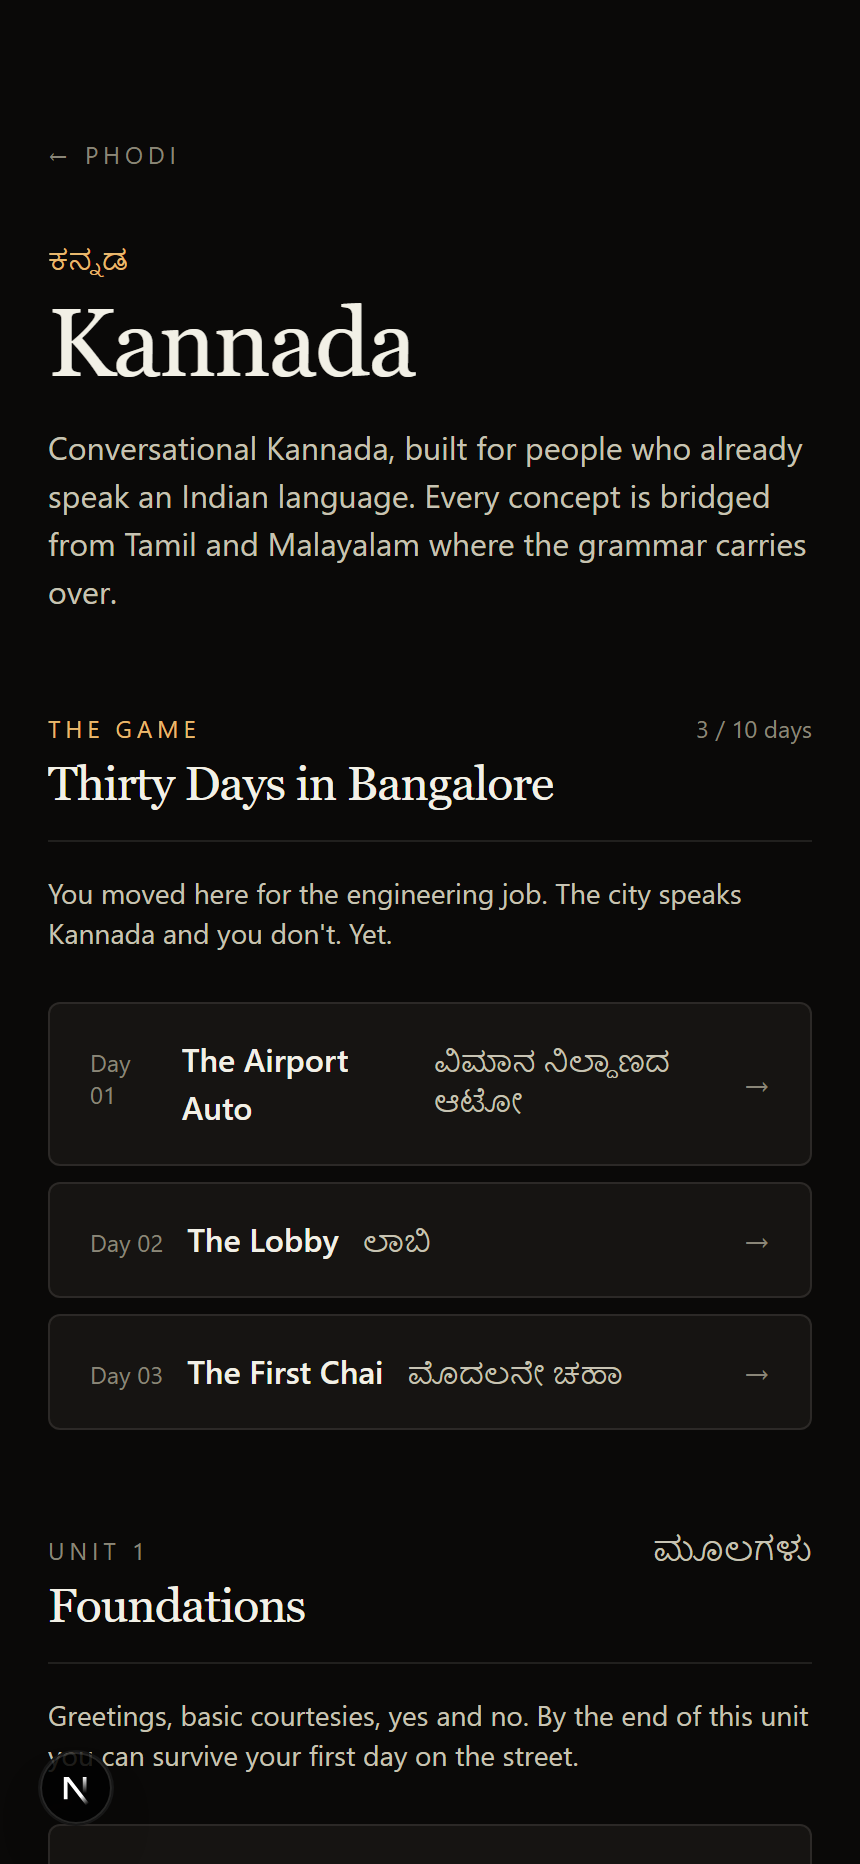
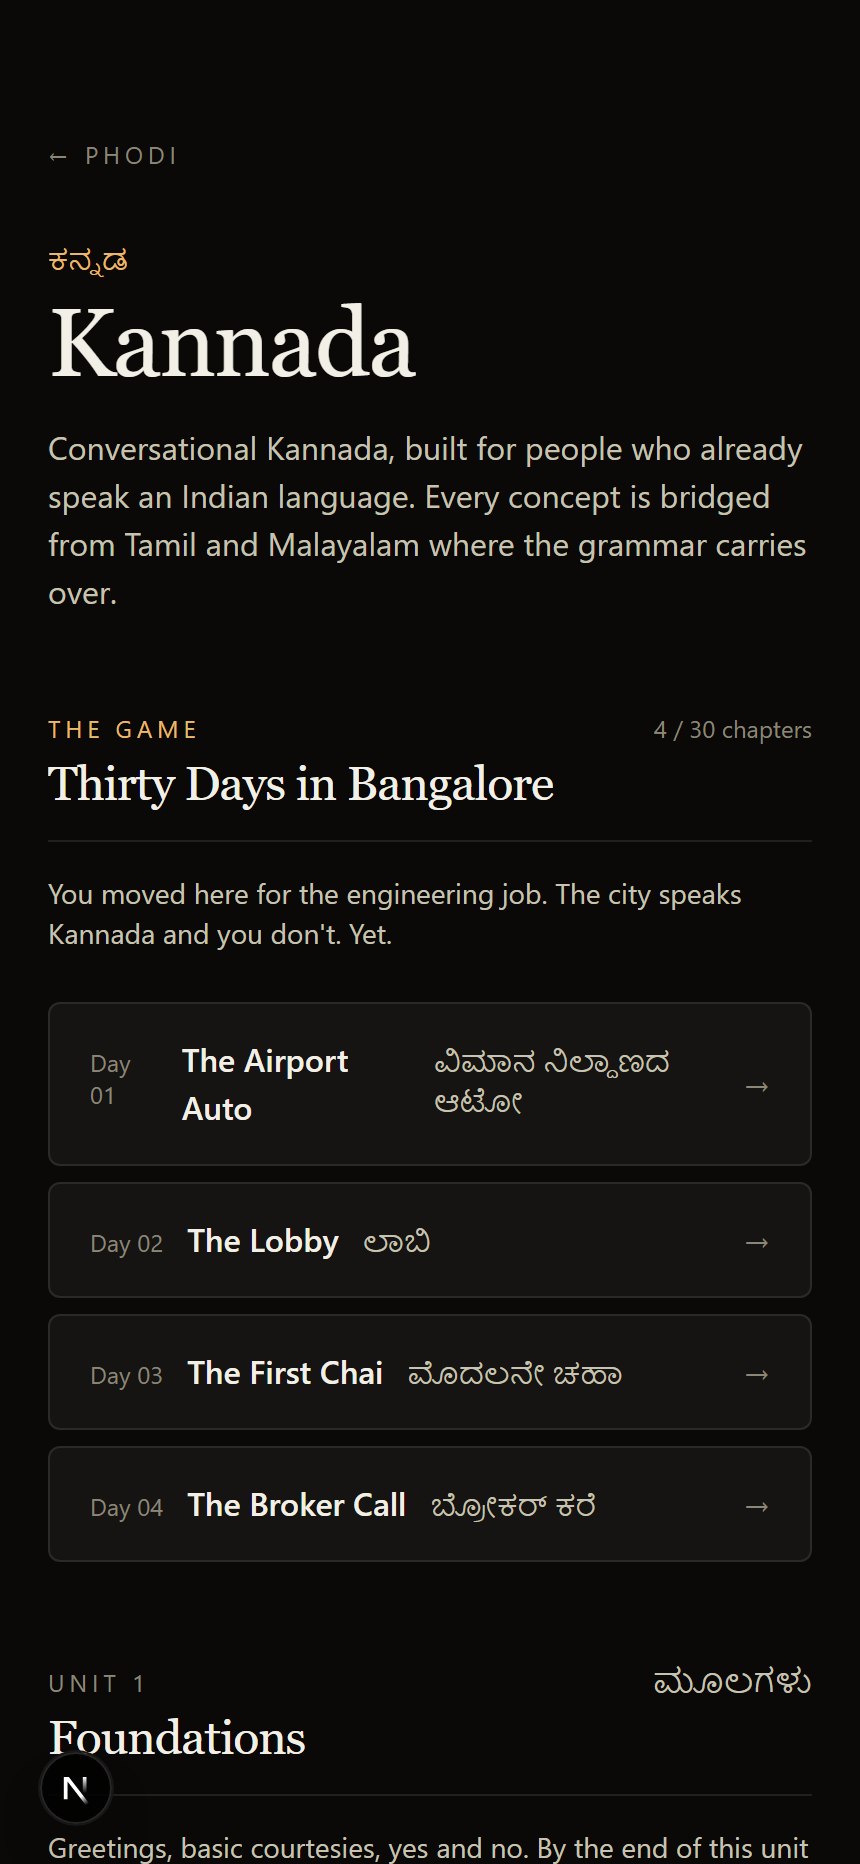
feat: Day 4 — Broker Call + rescope to 100-day arc / 30 chapters
Day 4 — The Broker Call. The first phone-only chapter. Rangaswamy
debuts in four emotional registers across six lines:
  - neutral pickup ("Hello, yāru?" — his Bluetooth crackles)
  - pushy sell ("ಹೌದು ಹೌದು ಸಾರ್. Indiranagar 2BHK. ಸೂಪರ್ flat...") —
    pace 1.35, the fastest synthesized line in the game so far
  - annoyed (when you push back on the ten-month advance — "all
    owners ask for ten months. okay, six if you must.")
  - warm (closing — "today evening six o'clock, come, I'll meet
    you there")

Three player choices test register, negotiation, and scheduling.
Setting "asked_for_options" flag will gate which flats appear in
Day 5 once we build it (or, more accurately, the broker arc that
spans Days 4-7).

Story scope: from "30 days, 10 playable" to **100 narrative days,
30 playable chapters**. A "Day N" tag is an arc position inside
the 100-day story, not the chapter index. The chapter cadence is
dense at the start (chapters 1-10 land on Days 1-10) and stretches
out across the remaining 90 days. The course-page counter now
reads "X / 30 chapters".

diff --git a/src/lib/chapters/content.ts b/src/lib/chapters/content.ts
@@ -4,6 +4,7 @@ import knVoices from "@content/kn/voices.json";
 import knDay01 from "@content/kn/chapters/01-airport.json";
 import knDay02 from "@content/kn/chapters/02-hotel.json";
 import knDay03 from "@content/kn/chapters/03-chai.json";
+import knDay04 from "@content/kn/chapters/04-broker-call.json";
 
 interface VoicesDoc {
   language: string;
@@ -20,6 +21,7 @@ const chaptersByLang: Record<string, Chapter[]> = {
     knDay01 as unknown as Chapter,
     knDay02 as unknown as Chapter,
     knDay03 as unknown as Chapter,
+    knDay04 as unknown as Chapter,
   ],
 };
 

diff --git a/src/app/[lang]/page.tsx b/src/app/[lang]/page.tsx
@@ -44,7 +44,7 @@ export default async function CoursePage({
               </h2>
             </div>
             <p className="text-xs text-cream-dim">
-              {chapters.length} / 10 days
+              {chapters.length} / 30 chapters
             </p>
           </div>
           <p className="mb-6 max-w-md text-sm text-cream-muted">

diff --git a/docs/story-bible.md b/docs/story-bible.md
@@ -12,11 +12,16 @@ You moved to Bangalore for your first engineering job. You have thirty days
 to find a flat, hold down the job, and figure out whether this city is
 yours. The catch: the city speaks Kannada and you don't. (Yet.)
 
-**Scope decision (2026-05-16):** the narrative arc is 30 days, but only
-**the first 10 days ship as playable chapters** (Act 1 — Survival). Days
-11-30 exist as a story scaffold the player learns about through
-references in Act 1; we build them as content if Act 1 lands. Anika and
-the family beats are foreshadowed but not in scope for the playable game.
+**Scope decision (2026-05-16, updated):** the narrative arc is **100
+days** — your character's first hundred days in Bangalore, roughly the
+length of a real-world probation period. We build **30 of those days
+as playable chapters**; the rest are time passing between key moments.
+A "Day N" tag on a chapter is the *narrative* day inside the 100-day
+arc, not the chapter index — so chapters 1, 2, 3 happen on Days 1, 2,
+3, but chapter 11 might happen on Day 17 or 22 of your arc.
+
+This shape lets the story breathe. You don't grind through 100 chapters
+to feel time pass — the gaps between chapters *are* the time.
 
 ## You
 
@@ -224,9 +229,9 @@ Same editorial bible as the lessons, with these chapter-specific additions:
 - **Anika's gender** — player choice at onboarding ("Who do you want to
   fall for?"). Same dialogue tree, gendered pronouns rendered from the
   selection.
-- **Length** — 10 playable days (Act 1 only). The full 30-day arc is the
-  story scaffold visible in the bible; whether we build Acts 2-3 depends
-  on how Act 1 lands.
+- **Length** — 100-day arc, 30 playable chapters. Chapter cadence is
+  variable: dense at the start (Days 1-10 = chapters 1-10), then
+  spread out across the next 90 narrative days.
 
 ## Open questions
 

diff --git a/docs/build-log.md b/docs/build-log.md
@@ -81,6 +81,26 @@ you push back with ಮೀಟರ್ ಹಾಕಿ.
 hook. Cultural-appropriateness scoring (Vibes) is the wedge no learning
 app currently does. This is the PM Engineer signal that lands.
 
+## Milestone 09 — Day 4: Broker Call (phone-only) + 100-day rescope
+**Shipped:** Day 4 — The Broker Call. The first phone-only chapter:
+no body language, only audio + stage directions like "his Bluetooth
+crackles" and "the honking gets louder — he's walking somewhere
+fast" to sell the medium. Rangaswamy debuts in four emotional
+registers: neutral pickup, pushy sales pitch (pace 1.35 — the
+fastest line in the game), annoyed when you push back on the
+advance, warm closing as he locks in the viewing.
+
+Story bible rescoped to **100 narrative days, 30 playable chapters**.
+"Day N" tags are arc-positions inside that 100, not chapter indexes.
+Lets the story breathe — chapters 1-10 happen on Days 1-10, then
+spread non-uniformly across the next 90 narrative days.
+
+**Screenshots:** `15-day-4-broker-intro.png`, `16-day-4-broker-pushy.png`
+**Why it matters:** Phone-only proves the pipeline carries the
+emotional register without any visual anchor. Rangaswamy's pace 1.35
+pushy pitch is the most distinct intonation we've shipped — should
+feel unmistakably like a broker hustling.
+
 ## Milestone 08 — Story bible + Days 2-3 + chapter index
 **Commits:** `aafa074` (bible), Day 2/Day 3 content + voice profiles,
 chapter index on course page
